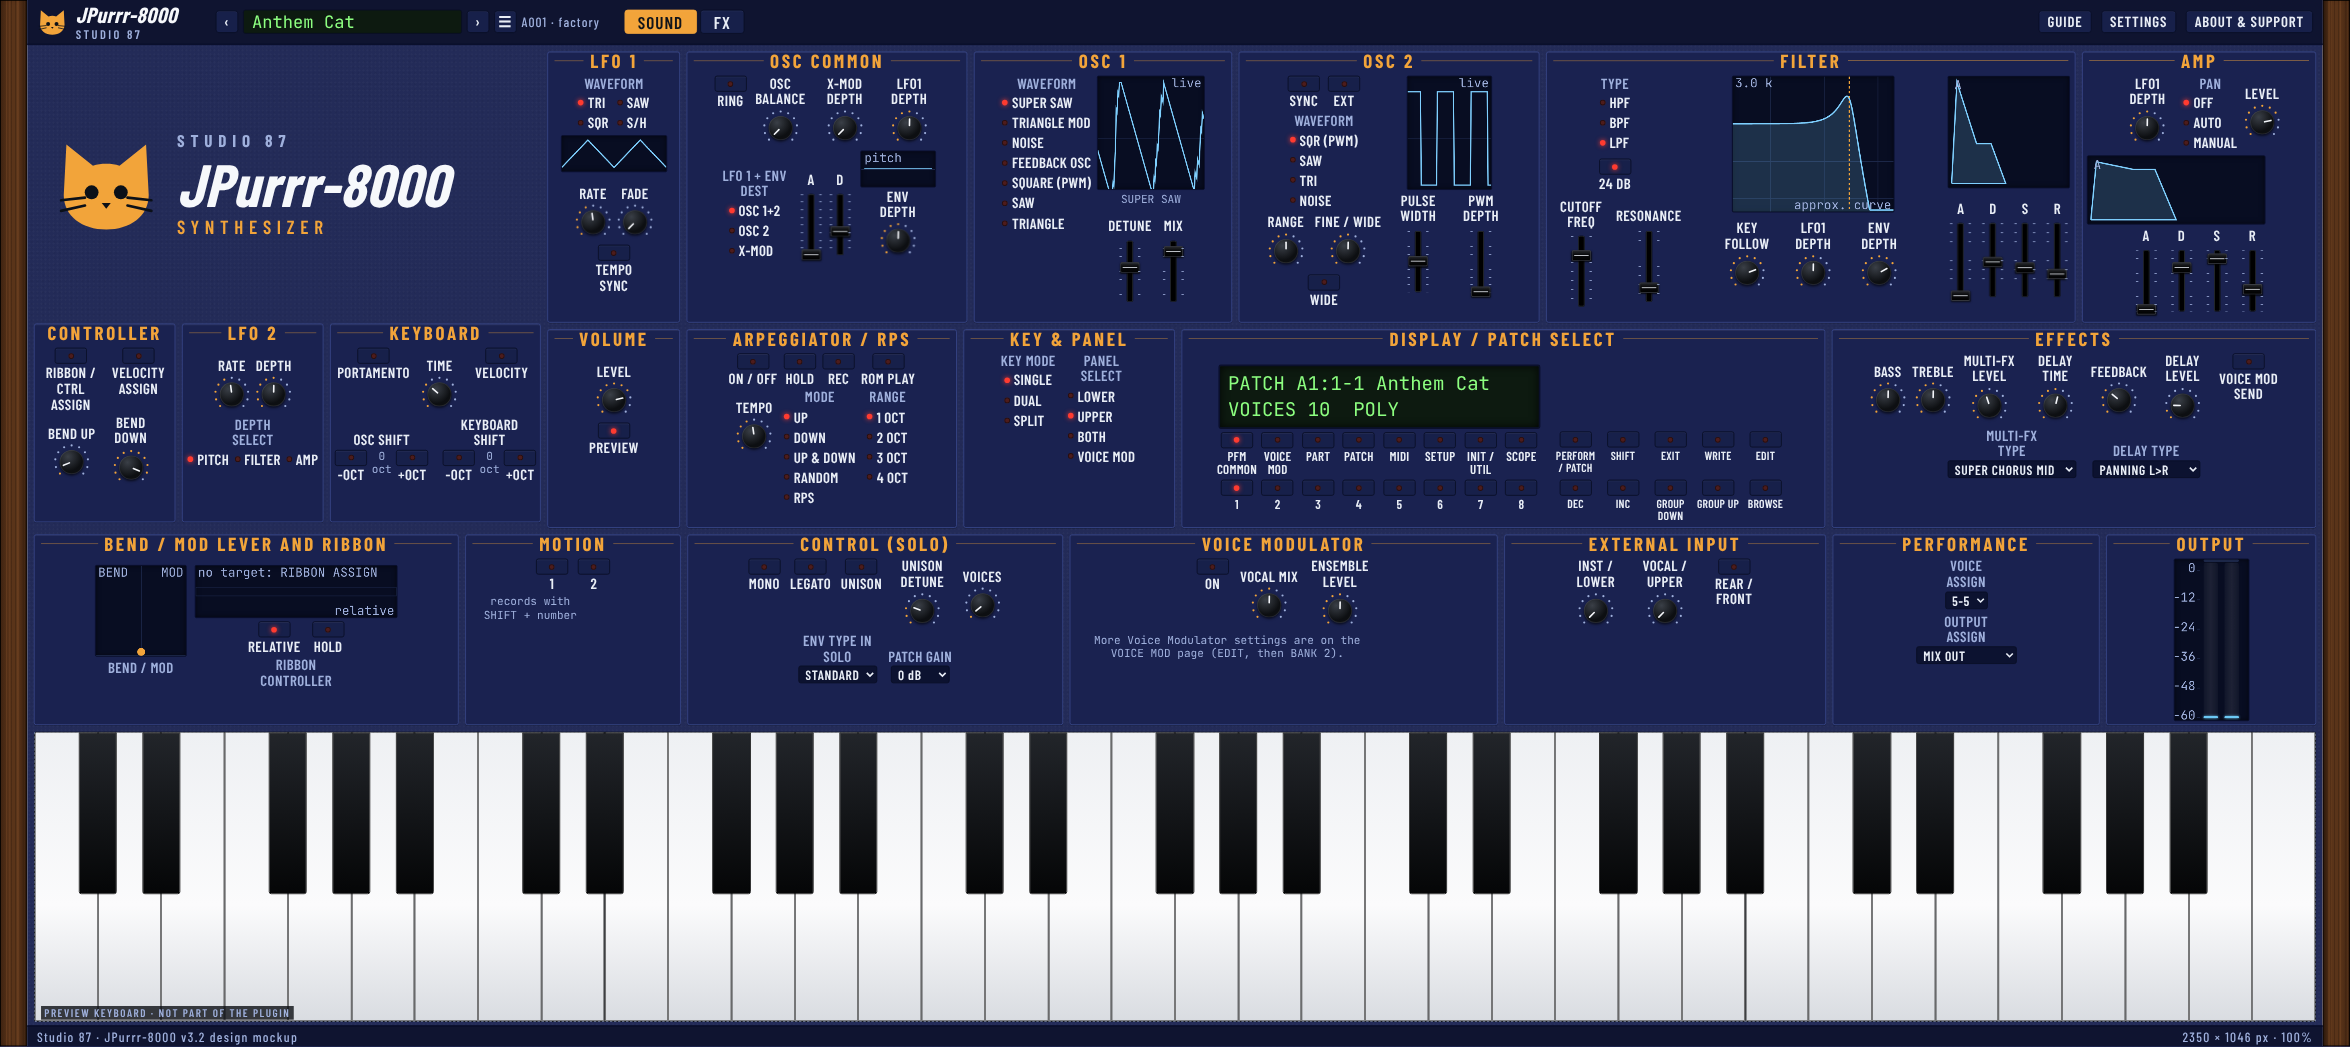
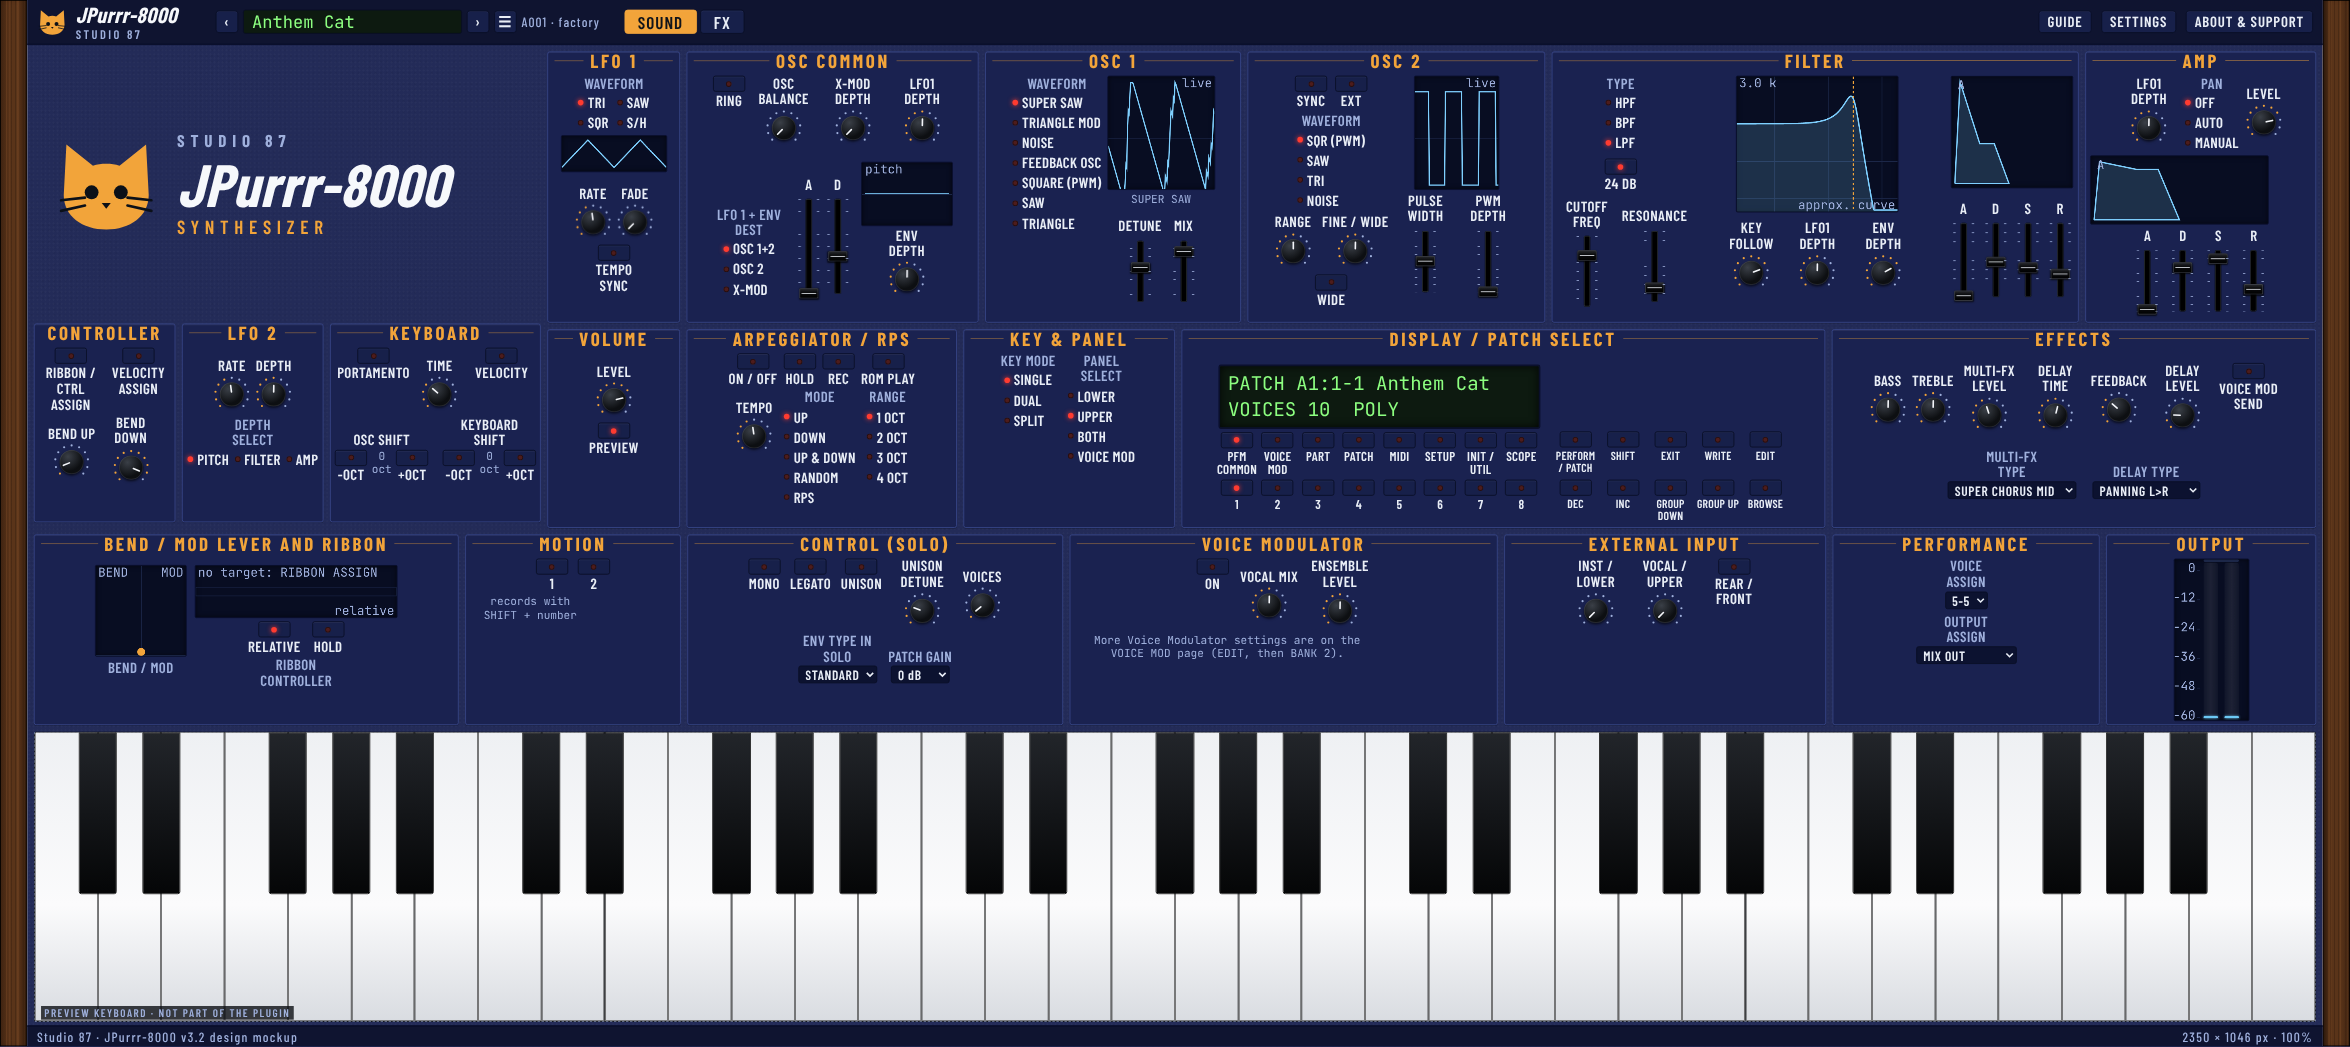
Mockup: OSC COMMON and EFFECTS spacing
Claude-Session: https://claude.ai/code/session_016ABbaoXQJWEN3dSNoh5BjT

diff --git a/docs/mockups/JPurrr-8000-mockup-v3.2.html b/docs/mockups/JPurrr-8000-mockup-v3.2.html
@@ -284,8 +284,8 @@ const lfo1=sec('LFO 1',0,330,
  `<div class="row" style="gap:4px">${K('l1r','RATE',0,127,60,'LFO 1 speed.')}${K('l1f','FADE',0,127,0,'LFO 1 fade time: how long it takes to reach full depth after a key press.')}</div>`+
  T('l1s','TEMPO SYNC',0,'Lock LFO 1 speed to the host tempo.'));
 const com=sec('OSC COMMON',0,330,
- `<div class="row" style="gap:4px">${T('ring','RING',0,'Ring modulator: multiplies OSC 1 and OSC 2 for metallic, bell like sounds.')}${K('ob','OSC BALANCE',-64,63,-64,'Mix between OSC 1 (left) and OSC 2 (right).')}${K('ox','X-MOD DEPTH',0,127,0,'Cross modulation: OSC 2 modulates the pitch of OSC 1. Not with SUPER SAW or NOISE.')}${K('ol','LFO1 DEPTH',-64,63,0,'LFO 1 depth on the destination chosen below.')}</div>`+
- `<div class="row" style="gap:8px;align-items:flex-end">${O('od','LFO 1 + ENV DEST',['OSC 1+2','OSC 2','X-MOD'],0,'Where LFO 1 and the pitch envelope act: both oscillators, OSC 2 only, or the cross modulation depth.')}<div class="row" style="gap:2px">${SL('pa','A',0,127,0,'Pitch envelope attack time.')}${SL('pdd','D',0,127,50,'Pitch envelope decay time.')}</div><div class="col" style="gap:2px">${CV('cv_pe',92,44)}${K('pd','ENV DEPTH',-64,63,0,'How far the pitch envelope bends the pitch. Negative values start high and fall.')}</div></div>`);
+ `<div class="row" style="gap:10px">${T('ring','RING',0,'Ring modulator: multiplies OSC 1 and OSC 2 for metallic, bell like sounds.')}${K('ob','OSC BALANCE',-64,63,-64,'Mix between OSC 1 (left) and OSC 2 (right).')}${K('ox','X-MOD DEPTH',0,127,0,'Cross modulation: OSC 2 modulates the pitch of OSC 1. Not with SUPER SAW or NOISE.')}${K('ol','LFO1 DEPTH',-64,63,0,'LFO 1 depth on the destination chosen below.')}</div>`+
+ `<div class="row" style="gap:12px;align-items:flex-end;margin-top:14px">${O('od','LFO 1 + ENV DEST',['OSC 1+2','OSC 2','X-MOD'],0,'Where LFO 1 and the pitch envelope act: both oscillators, OSC 2 only, or the cross modulation depth.')}<div class="row" style="gap:2px">${SL('pa','A',0,127,0,'Pitch envelope attack time.',{h:130})}${SL('pdd','D',0,127,50,'Pitch envelope decay time.',{h:130})}</div><div class="col" style="gap:2px">${CV('cv_pe',112,78)}${K('pd','ENV DEPTH',-64,63,0,'How far the pitch envelope bends the pitch. Negative values start high and fall.')}</div></div>`);
 const osc1=sec('OSC 1',0,330,
  `<div class="row oscgap" style="gap:6px;align-items:flex-start"><div id="o1opts">${O('o1w','WAVEFORM',O1W,0,'OSC 1 waveform. SUPER SAW is the 7 saw stack. FEEDBACK OSC is mono only: it forces Mono or Legato and cannot be used with Unison.')}</div>
   <div class="col" style="gap:3px">${CV('cv_o1',132,140)}<div class="note" id="o1info"></div><div class="row" style="gap:2px">${SL('o1c1','CTRL 1',0,127,70,'CONTROL 1 of OSC 1. For SUPER SAW it spreads the six outer saws away from the centre.')}${SL('o1c2','CTRL 2',0,127,105,'CONTROL 2 of OSC 1. For SUPER SAW it sets how loud the outer saws are against the centre saw.')}</div></div></div>`);
@@ -319,8 +319,8 @@ const rbn=sec('BEND / MOD LEVER AND RIBBON',0,230,
  `<div class="row" style="gap:10px;align-items:flex-start;margin-top:8px"><div class="col" data-tip="Bend and mod lever: drag left or right to bend the pitch, up to add LFO 2 (the modulation lever). It springs back when let go.">${CV('cv_pad',112,112)}<div class="lb dim w">BEND / MOD</div></div>
   <div class="col" style="gap:4px" data-tip="Ribbon controller: touch and slide. It moves the parameter set with RIBBON / CTRL ASSIGN (or nothing). In RELATIVE mode it works around the current value.">${CV('cv_rib',250,64)}<div class="row" style="gap:14px">${T('rrel','RELATIVE',1,'Relative: the ribbon changes the value around where it is now. Dark is absolute.')}${T('rhold','HOLD',0,'Hold: the ribbon value stays when you lift your finger.')}</div><div class="lb dim w">RIBBON CONTROLLER</div></div></div>`);
 const fxs=sec('EFFECTS',0,240,
- `<div class="row" style="gap:6px">${K('tb','BASS',-64,63,0,'Tone control: low shelf. Right of centre adds low end, left cuts it.')}${K('tt','TREBLE',-64,63,0,'Tone control: high shelf. Right of centre adds highs, left cuts them.')}${K('xl','MULTI-FX LEVEL',0,127,55,'Level of the chorus, flanger, phaser or distortion chosen below.')}${K('dt','DELAY TIME',0,127,70,'Delay time. The range depends on the delay type.')}${K('dfb','FEEDBACK',0,127,40,'How much of the delay comes back into itself.')}${K('dl','DELAY LEVEL',0,127,22,'Delay level. 0 is off.')}${T('vsend','VOICE MOD SEND',0,'Send the patch into the Voice Modulator.')}</div>`+
- `<div class="row" style="gap:20px;align-items:flex-end">${D('xt','MULTI-FX TYPE',FX,1,'Multi effects type. Twelve chorus, flanger and phaser types plus DISTORTION (new on the JP-8080). Distortion takes the place of the chorus.')}${D('dty','DELAY TYPE',DLY,0,'Delay type: panning left to right, right to left, short panning, mono short or mono long.')}</div>`);
+ `<div class="row" style="gap:6px;margin-top:12px">${K('tb','BASS',-64,63,0,'Tone control: low shelf. Right of centre adds low end, left cuts it.')}${K('tt','TREBLE',-64,63,0,'Tone control: high shelf. Right of centre adds highs, left cuts them.')}${K('xl','MULTI-FX LEVEL',0,127,55,'Level of the chorus, flanger, phaser or distortion chosen below.')}${K('dt','DELAY TIME',0,127,70,'Delay time. The range depends on the delay type.')}${K('dfb','FEEDBACK',0,127,40,'How much of the delay comes back into itself.')}${K('dl','DELAY LEVEL',0,127,22,'Delay level. 0 is off.')}${T('vsend','VOICE MOD SEND',0,'Send the patch into the Voice Modulator.')}</div>`+
+ `<div class="row" style="gap:20px;align-items:flex-end;margin-top:14px">${D('xt','MULTI-FX TYPE',FX,1,'Multi effects type. Twelve chorus, flanger and phaser types plus DISTORTION (new on the JP-8080). Distortion takes the place of the chorus.')}${D('dty','DELAY TYPE',DLY,0,'Delay type: panning left to right, right to left, short panning, mono short or mono long.')}</div>`);
 
 const vol=sec('VOLUME',0,240,
  K('vol','LEVEL',0,127,100,'Master volume of the plugin.')+T('prev','PREVIEW',1,'Preview: shows the on-screen keyboard to play sounds without a MIDI keyboard.'));
@@ -663,7 +663,7 @@ const D3={
   x.fillStyle=CC.txt;x.font='15.5px "JetBrains Mono",monospace';x.textAlign='left';x.fillText('PEAKS',3,10);x.textAlign='right';x.fillText((-3+P.qlc.v/10).toFixed(1)+' dB ceiling',w-3,10);},
  cv_fe(){env('cv_fe','fea','fed','fes','fer');},cv_ae(){env('cv_ae','aea','aed','aes','aer');},
  cv_pe(){const c=cx('cv_pe');if(!c)return;const {x,w,h}=c;const a=P.pa.v/127,d=P.pdd.v/127,dep=P.pd.v/64;const N=100;x.beginPath();
-  const aw=6+a*40,dw=10+d*60;x.moveTo(4,h/2);const top=h/2-dep*(h/2-8);
+  const aw=6+a*w*.3,dw=10+d*w*.45;x.moveTo(4,h/2);const top=h/2-dep*(h/2-8);
   x.lineTo(4+aw,top);for(let i=1;i<=30;i++){const t=i/30;x.lineTo(4+aw+t*dw,h/2+(top-h/2)*Math.exp(-4*t));}x.lineTo(w-4,h/2);
   x.strokeStyle=CC.line;x.lineWidth=1.8;x.stroke();x.strokeStyle=CC.grid;x.lineWidth=1;x.beginPath();x.moveTo(0,h/2+.5);x.lineTo(w,h/2+.5);x.stroke();
   x.fillStyle=CC.txt;x.font='15.5px "JetBrains Mono",monospace';x.fillText('pitch',4,10);},
